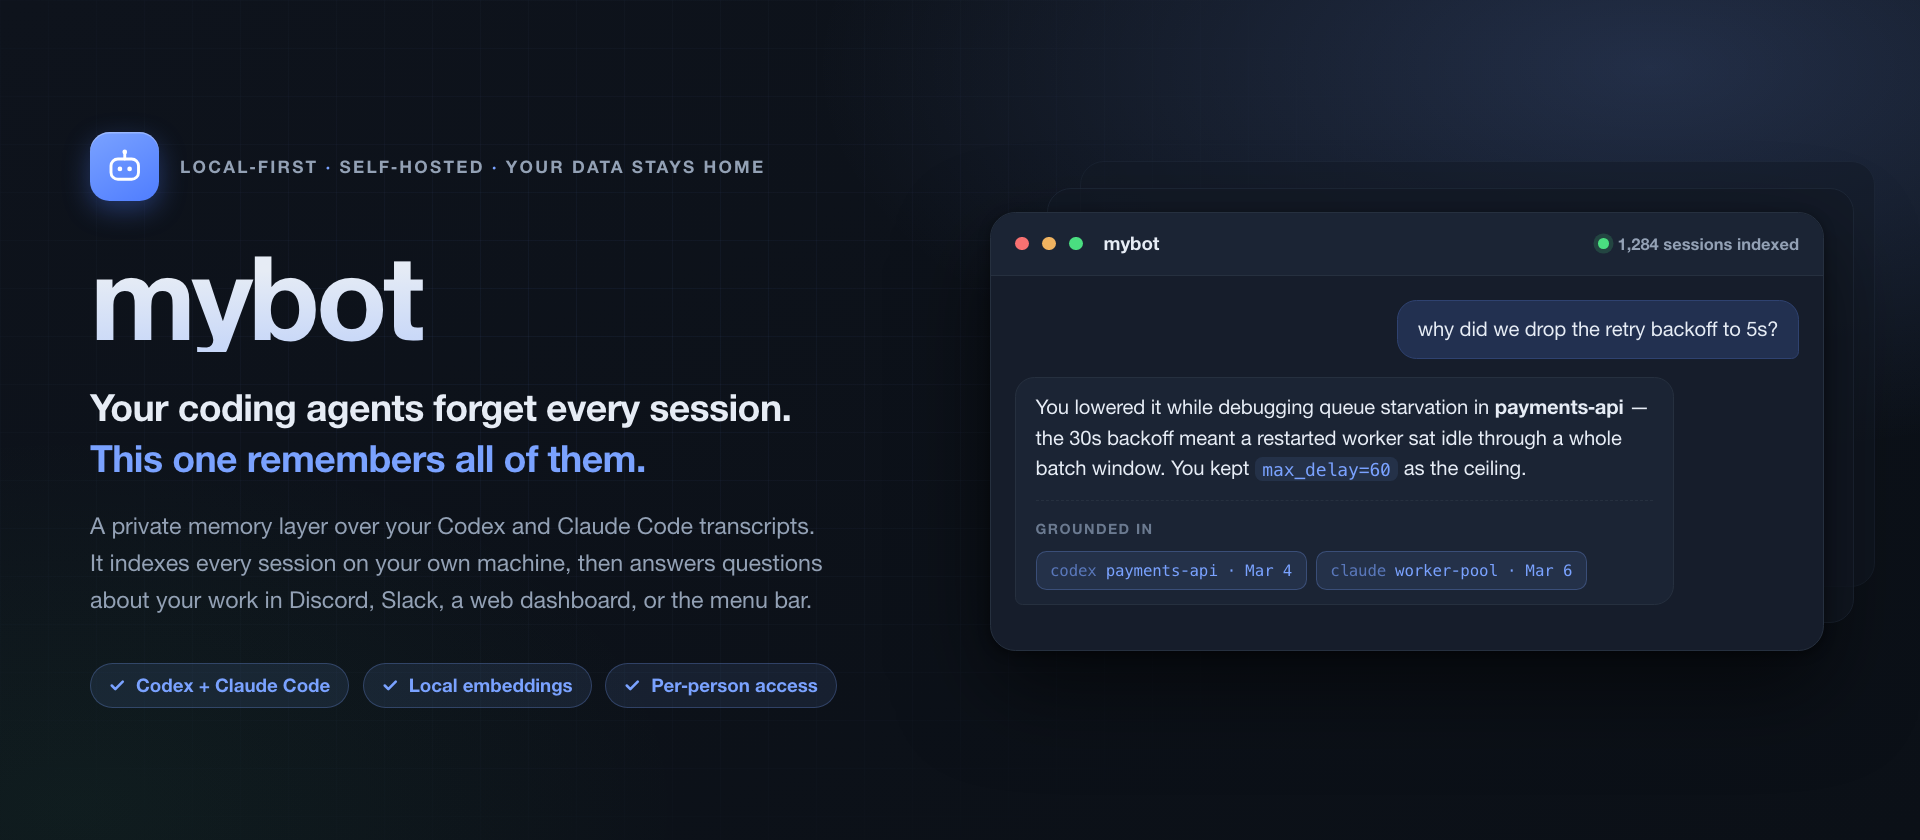
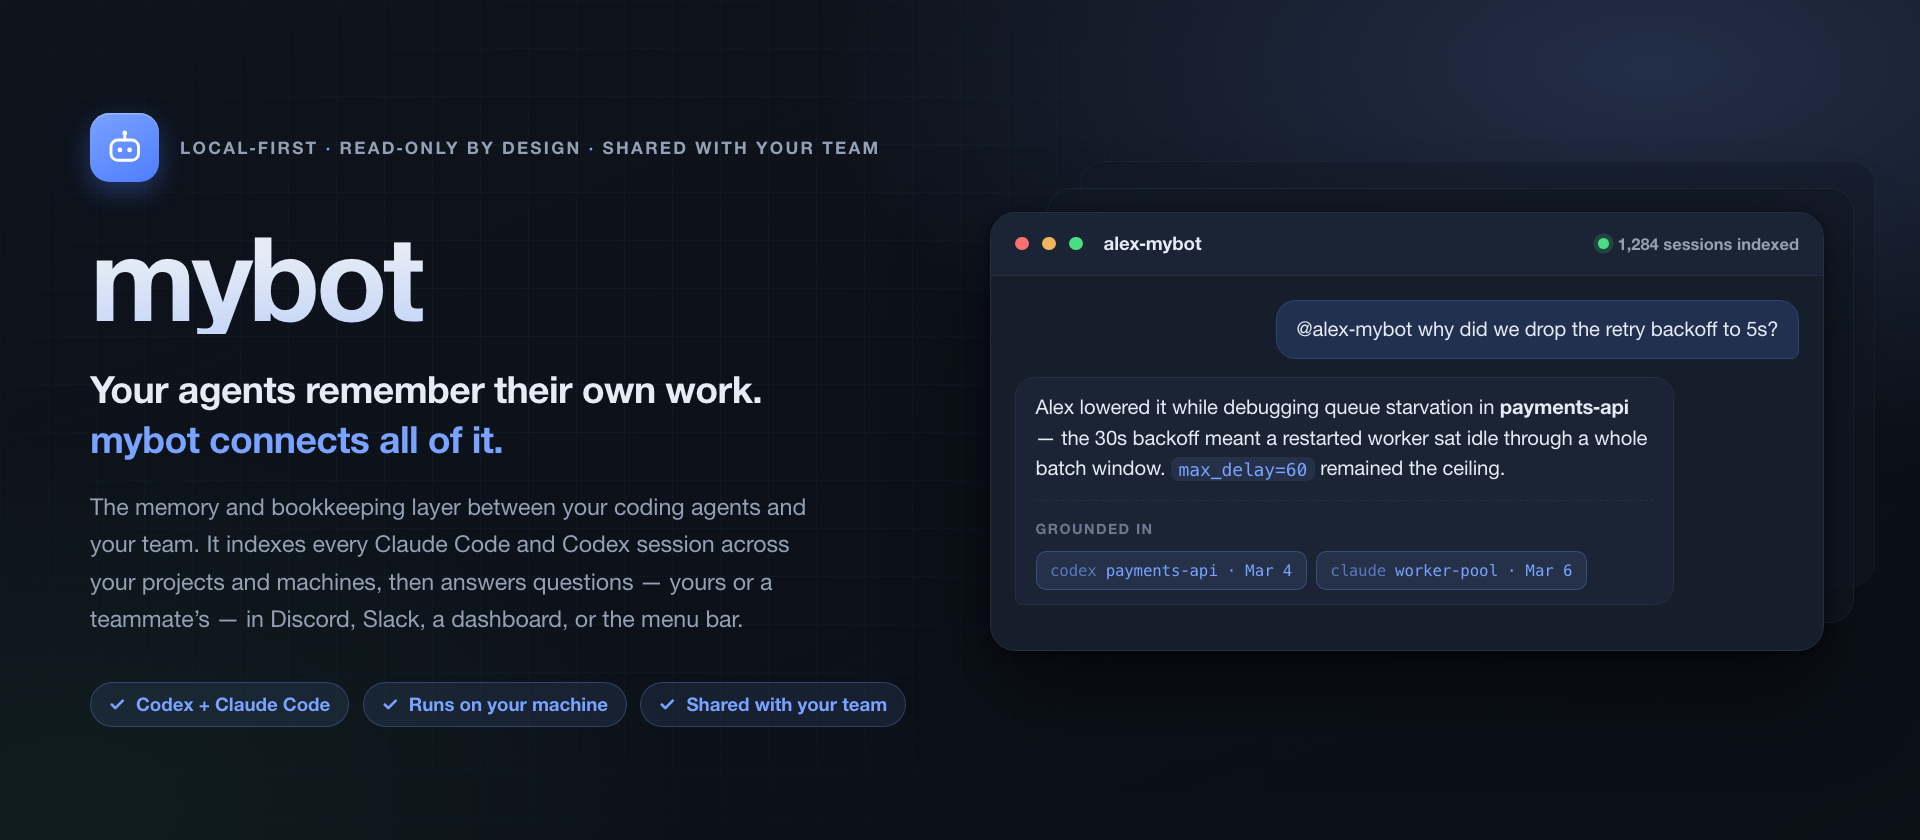
Reframe positioning: memory layer across agents and people, not "agents forget"
The old framing ("your coding agents forget every session") is an overstatement
now that Claude Code and Codex both keep their own memory. What they don't do is
reach across boundaries — another tool, project, machine, or person — which is
the actual gap this fills.

- hero + README: lead with the cross-boundary memory/bookkeeping role, and make
  team use a first-class purpose rather than a later section. The hero mock now
  shows a teammate querying someone else's instance.
- README: add "Where mybot fits", placing mybot alongside nebula-notebook, hop,
  and burrow.
- README: add "Read-only by design", stating the read-only + tool-use boundary
  as deliberate, and that thread-level collaboration would want a sandboxed
  server rather than the machine holding your keys and history.
- restore hop and nebula references in the agent-session convention, access
  example, and origin comments — they are public sibling projects, so naming
  them documents a real adopter instead of leaking anything.

diff --git a/docs/assets/hero.html b/docs/assets/hero.html
@@ -232,17 +232,18 @@
             <circle cx="15.1" cy="13.4" r="1.5" fill="#fff"/>
           </svg>
         </div>
-        <div class="eyebrow">Local&#8209;first <b>&middot;</b> Self&#8209;hosted <b>&middot;</b> Your data stays home</div>
+        <div class="eyebrow">Local&#8209;first <b>&middot;</b> Read&#8209;only by design <b>&middot;</b> Shared with your team</div>
       </div>
 
       <h1>mybot</h1>
 
-      <div class="tagline">Your coding agents forget every session.<br><em>This one remembers all of them.</em></div>
+      <div class="tagline">Your agents remember their own work.<br><em>mybot connects all of it.</em></div>
 
       <div class="sub">
-        A private memory layer over your Codex and Claude Code transcripts. It indexes
-        every session on your own machine, then answers questions about your work in
-        Discord, Slack, a web dashboard, or the menu bar.
+        The memory and bookkeeping layer between your coding agents and your team. It
+        indexes every Claude Code and Codex session across your projects and machines,
+        then answers questions &mdash; yours or a teammate&rsquo;s &mdash; in Discord,
+        Slack, a dashboard, or the menu bar.
       </div>
 
       <div class="chips">
@@ -252,11 +253,11 @@
         </div>
         <div class="chip">
           <svg width="11" height="11" viewBox="0 0 12 12" fill="none"><path d="M2 6.2l2.6 2.6L10 3.4" stroke="currentColor" stroke-width="1.9" stroke-linecap="round" stroke-linejoin="round"/></svg>
-          Local embeddings
+          Runs on your machine
         </div>
         <div class="chip">
           <svg width="11" height="11" viewBox="0 0 12 12" fill="none"><path d="M2 6.2l2.6 2.6L10 3.4" stroke="currentColor" stroke-width="1.9" stroke-linecap="round" stroke-linejoin="round"/></svg>
-          Per&#8209;person access
+          Shared with your team
         </div>
       </div>
     </div>
@@ -270,18 +271,18 @@
           <div class="dot" style="background:#f87171"></div>
           <div class="dot" style="background:#f0b360"></div>
           <div class="dot" style="background:#4ade80"></div>
-          <div class="card-title" style="margin-left:5px">mybot</div>
+          <div class="card-title" style="margin-left:5px">alex&#8209;mybot</div>
           <div class="card-meta"><span class="pulse"></span>1,284 sessions indexed</div>
         </div>
         <div class="body">
           <div class="row me">
-            <div class="bubble me">why did we drop the retry backoff to 5s?</div>
+            <div class="bubble me">@alex&#8209;mybot why did we drop the retry backoff to 5s?</div>
           </div>
           <div class="row">
             <div class="bubble bot">
-              You lowered it while debugging queue starvation in <b>payments&#8209;api</b> —
+              Alex lowered it while debugging queue starvation in <b>payments&#8209;api</b> —
               the 30s backoff meant a restarted worker sat idle through a whole
-              batch window. You kept <code>max_delay=60</code> as the ceiling.
+              batch window. <code>max_delay=60</code> remained the ceiling.
               <div class="grounding">
                 <div class="grounding-label">Grounded in</div>
                 <div class="pills">

diff --git a/sources/origin.py b/sources/origin.py
@@ -32,8 +32,9 @@ AUTOMATED_CLAUDE_ENTRYPOINTS = {"sdk-cli", "sdk-py", "sdk-ts", "sdk", "headless"
 #     <!-- agent-session: launcher=<tool> origin=orchestrated -->
 #
 # `origin` maps to an automated cluster (default "orchestrated"); `launcher` is
-# free-form, your tool's name. See docs/agent-session-convention.md. mybot detects this
-# marker and both classifies the session automated AND strips it from indexed text.
+# free-form, the launcher's name (e.g. hop). See docs/agent-session-convention.md.
+# mybot detects this marker and both classifies the session automated AND strips
+# it from indexed text.
 AGENT_SESSION_MARKER_RE = re.compile(r"<!--\s*agent-session:\s*(.*?)\s*-->", re.IGNORECASE)
 
 

diff --git a/README.md b/README.md
@@ -2,7 +2,7 @@
   <picture>
     <source media="(prefers-color-scheme: dark)" srcset="docs/assets/hero-dark.png">
     <source media="(prefers-color-scheme: light)" srcset="docs/assets/hero-light.png">
-    <img src="docs/assets/hero-dark.png" alt="mybot — a private memory layer for your AI coding sessions" width="900">
+    <img src="docs/assets/hero-dark.png" alt="mybot — the memory and bookkeeping layer between your coding agents and your team" width="900">
   </picture>
 </p>
 
@@ -15,24 +15,47 @@
 
 ---
 
-Every Claude Code and Codex session you have ever run is already sitting on your
-disk as JSONL — thousands of conversations, commands, and command outputs that
-are effectively write-only. You cannot grep your way back to "what did we decide
-about the retry backoff, and why," because the answer is spread across a
-transcript you no longer remember the name of.
+Claude Code and Codex each remember their own work — a project's conventions, a
+session's history. What neither reaches across is the boundary: another tool,
+another project, another machine, another person. That boundary is usually where
+the context you actually need is sitting.
 
-mybot indexes those transcripts locally, then puts a search agent in front of
-them. Ask a question in plain language and it searches, refines its own queries,
-reopens the sessions that look relevant, and answers with dates and links back
-to the exact transcript window it used. Nothing leaves your machine: the index,
-the embeddings, and the model calls to your local CLI all stay local.
+mybot is the memory and bookkeeping layer across those boundaries. It indexes
+every Claude Code and Codex transcript on your machine into a local searchable
+index, then puts a retrieval agent in front of it: ask in plain language and it
+searches, refines its own queries, reopens the sessions that look relevant, and
+answers with dates and links back to the exact transcript window it used.
+Nothing leaves your machine — the index, the embeddings, and the model calls to
+your local CLI all stay local.
+
+It is also built to be shared. Each person runs their own instance over their
+own history, and the bot answers on its owner's behalf, within limits its owner
+sets. So a teammate can ask what you decided and get a grounded answer in
+seconds rather than waiting for you to be at a keyboard. Getting a team onto the
+same page stops being blocked on human latency.
 
 **Questions it is built to answer**
 
 - *"Have I hit this error before?"* — and what actually fixed it.
 - *"What was the config we settled on for the staging deploy?"* — with the date.
 - *"Did that migration finish, or did I abandon it halfway?"*
-- *"What did I decide about the schema, and what was the reasoning I rejected?"*
+- *"@alex-mybot what did Alex decide about the schema?"* — asked by a teammate,
+  answered from Alex's own sessions, without interrupting Alex.
+
+## Where mybot fits
+
+mybot is one piece of a small set of tools for working alongside agents rather
+than around them:
+
+| Project | What it is |
+|---|---|
+| [nebula-notebook](https://github.com/jzhoulab/nebula-notebook) | An agent-native notebook — you and your AI work in the same cells |
+| [hop](https://github.com/jzthree/hop) | Terminal access for humans and agents: browser terminals plus an MCP server for creating, driving, and auditing agent sessions |
+| [burrow](https://github.com/jzthree/burrow) | A macOS menu-bar manager for SSH tunnels and userspace VPN gateways, for reaching the machines the work runs on |
+| **mybot** | The memory and bookkeeping layer connecting agents and people across all of those contexts |
+
+The other three give agents and humans places to work and ways to reach them.
+mybot is what remembers what happened there, and lets anyone on the team ask.
 
 ## Quickstart
 
@@ -186,13 +209,35 @@ token; the rest are protected by the loopback bind plus per-actor policy checks.
 Do not expose the port directly — put it behind a private path such as
 Tailscale, a LAN-only interface, or an SSH tunnel.
 
+## Read-only by design
+
+mybot reads. It searches, opens transcripts, runs read-only `SELECT`s, and
+answers. It does not edit files, commit, or run commands on your behalf, and the
+answering agent's shell is sandboxed to a scratch workspace with networking
+restricted to localhost.
+
+That boundary is deliberate rather than unfinished. Read-only *with* tool use is
+already enough to answer almost anything about your own history — the agent can
+search, follow a lead, reopen the exact session, and cite it — while keeping the
+blast radius of pointing a bot at your entire archive bounded. It is also what
+makes sharing the bot with teammates a reasonable thing to do.
+
+Letting mybot actually *do* work in a thread, the way a collaborative assistant
+in Slack does, is a plausible direction. It is not built, and it does not belong
+on the machine that holds your keys and your history — that would want a
+sandboxed server with its own credentials. Treat the current scope as the
+supported one.
+
 ## Using it as a team
 
-Each person runs their own instance over their own history. The bot acts as its
-owner's representative, so a teammate can ask "what did Alex do with the nightly
-training run?" in Discord or Slack without interrupting Alex — bounded by the
-visibility rules above. Bots auto-name themselves `<owner-handle>-mybot` per
-server so a team's instances stay distinguishable.
+This is a primary use, not an add-on. Each person runs their own instance over
+their own history, and the bot acts as its owner's representative: a teammate
+asks "what did Alex do with the nightly training run?" in Discord or Slack and
+gets an answer grounded in Alex's actual sessions, bounded by the visibility
+rules above, without Alex being online. The shared context a team normally
+rebuilds through standups and interruptions is already written down in everyone's
+transcripts — this makes it queryable. Bots auto-name themselves
+`<owner-handle>-mybot` per server so a team's instances stay distinguishable.
 
 Guests get their own private memory (`!remember`) and shared team notes
 (`!remember-shared`), and mybot keeps a light person registry (display name,

diff --git a/docs/agent-session-convention.md b/docs/agent-session-convention.md
@@ -3,9 +3,9 @@
 ## Problem
 
 When a tool launches an AI coding agent (Claude Code, Codex) with **no human at
-the keyboard** — an orchestrator spawning worker agents
-in git worktrees — the resulting session is, by every field the CLIs record,
-**indistinguishable from a human session**:
+the keyboard** — an orchestrator such as [hop](https://github.com/jzthree/hop)
+spawning worker agents in git worktrees — the resulting session is, by every
+field the CLIs record, **indistinguishable from a human session**:
 
 | field          | human session | launched agent |
 |----------------|---------------|--------------------|
@@ -35,7 +35,7 @@ line to the agent's initial prompt**:
 
 Attributes:
 
-- `launcher` — free-form tool name, e.g. `agentctl`. For provenance/debugging.
+- `launcher` — free-form tool name, e.g. `hop`. For provenance/debugging.
 - `origin` — the automated cluster this session belongs to. Use `orchestrated`
   for dispatcher-launched worker agents (default if omitted). Other recognized
   clusters: `subagent`, `sdk`, `exec`, `no-user-turns`.
@@ -45,7 +45,7 @@ Attributes:
 When a dispatcher launches a worker agent, the first prompt it sends becomes:
 
 ```
-<!-- agent-session: launcher=agentctl origin=orchestrated -->
+<!-- agent-session: launcher=hop origin=orchestrated -->
 Fix the failing test in ./src/parser.ts (you are in a git worktree…)
 ```
 
